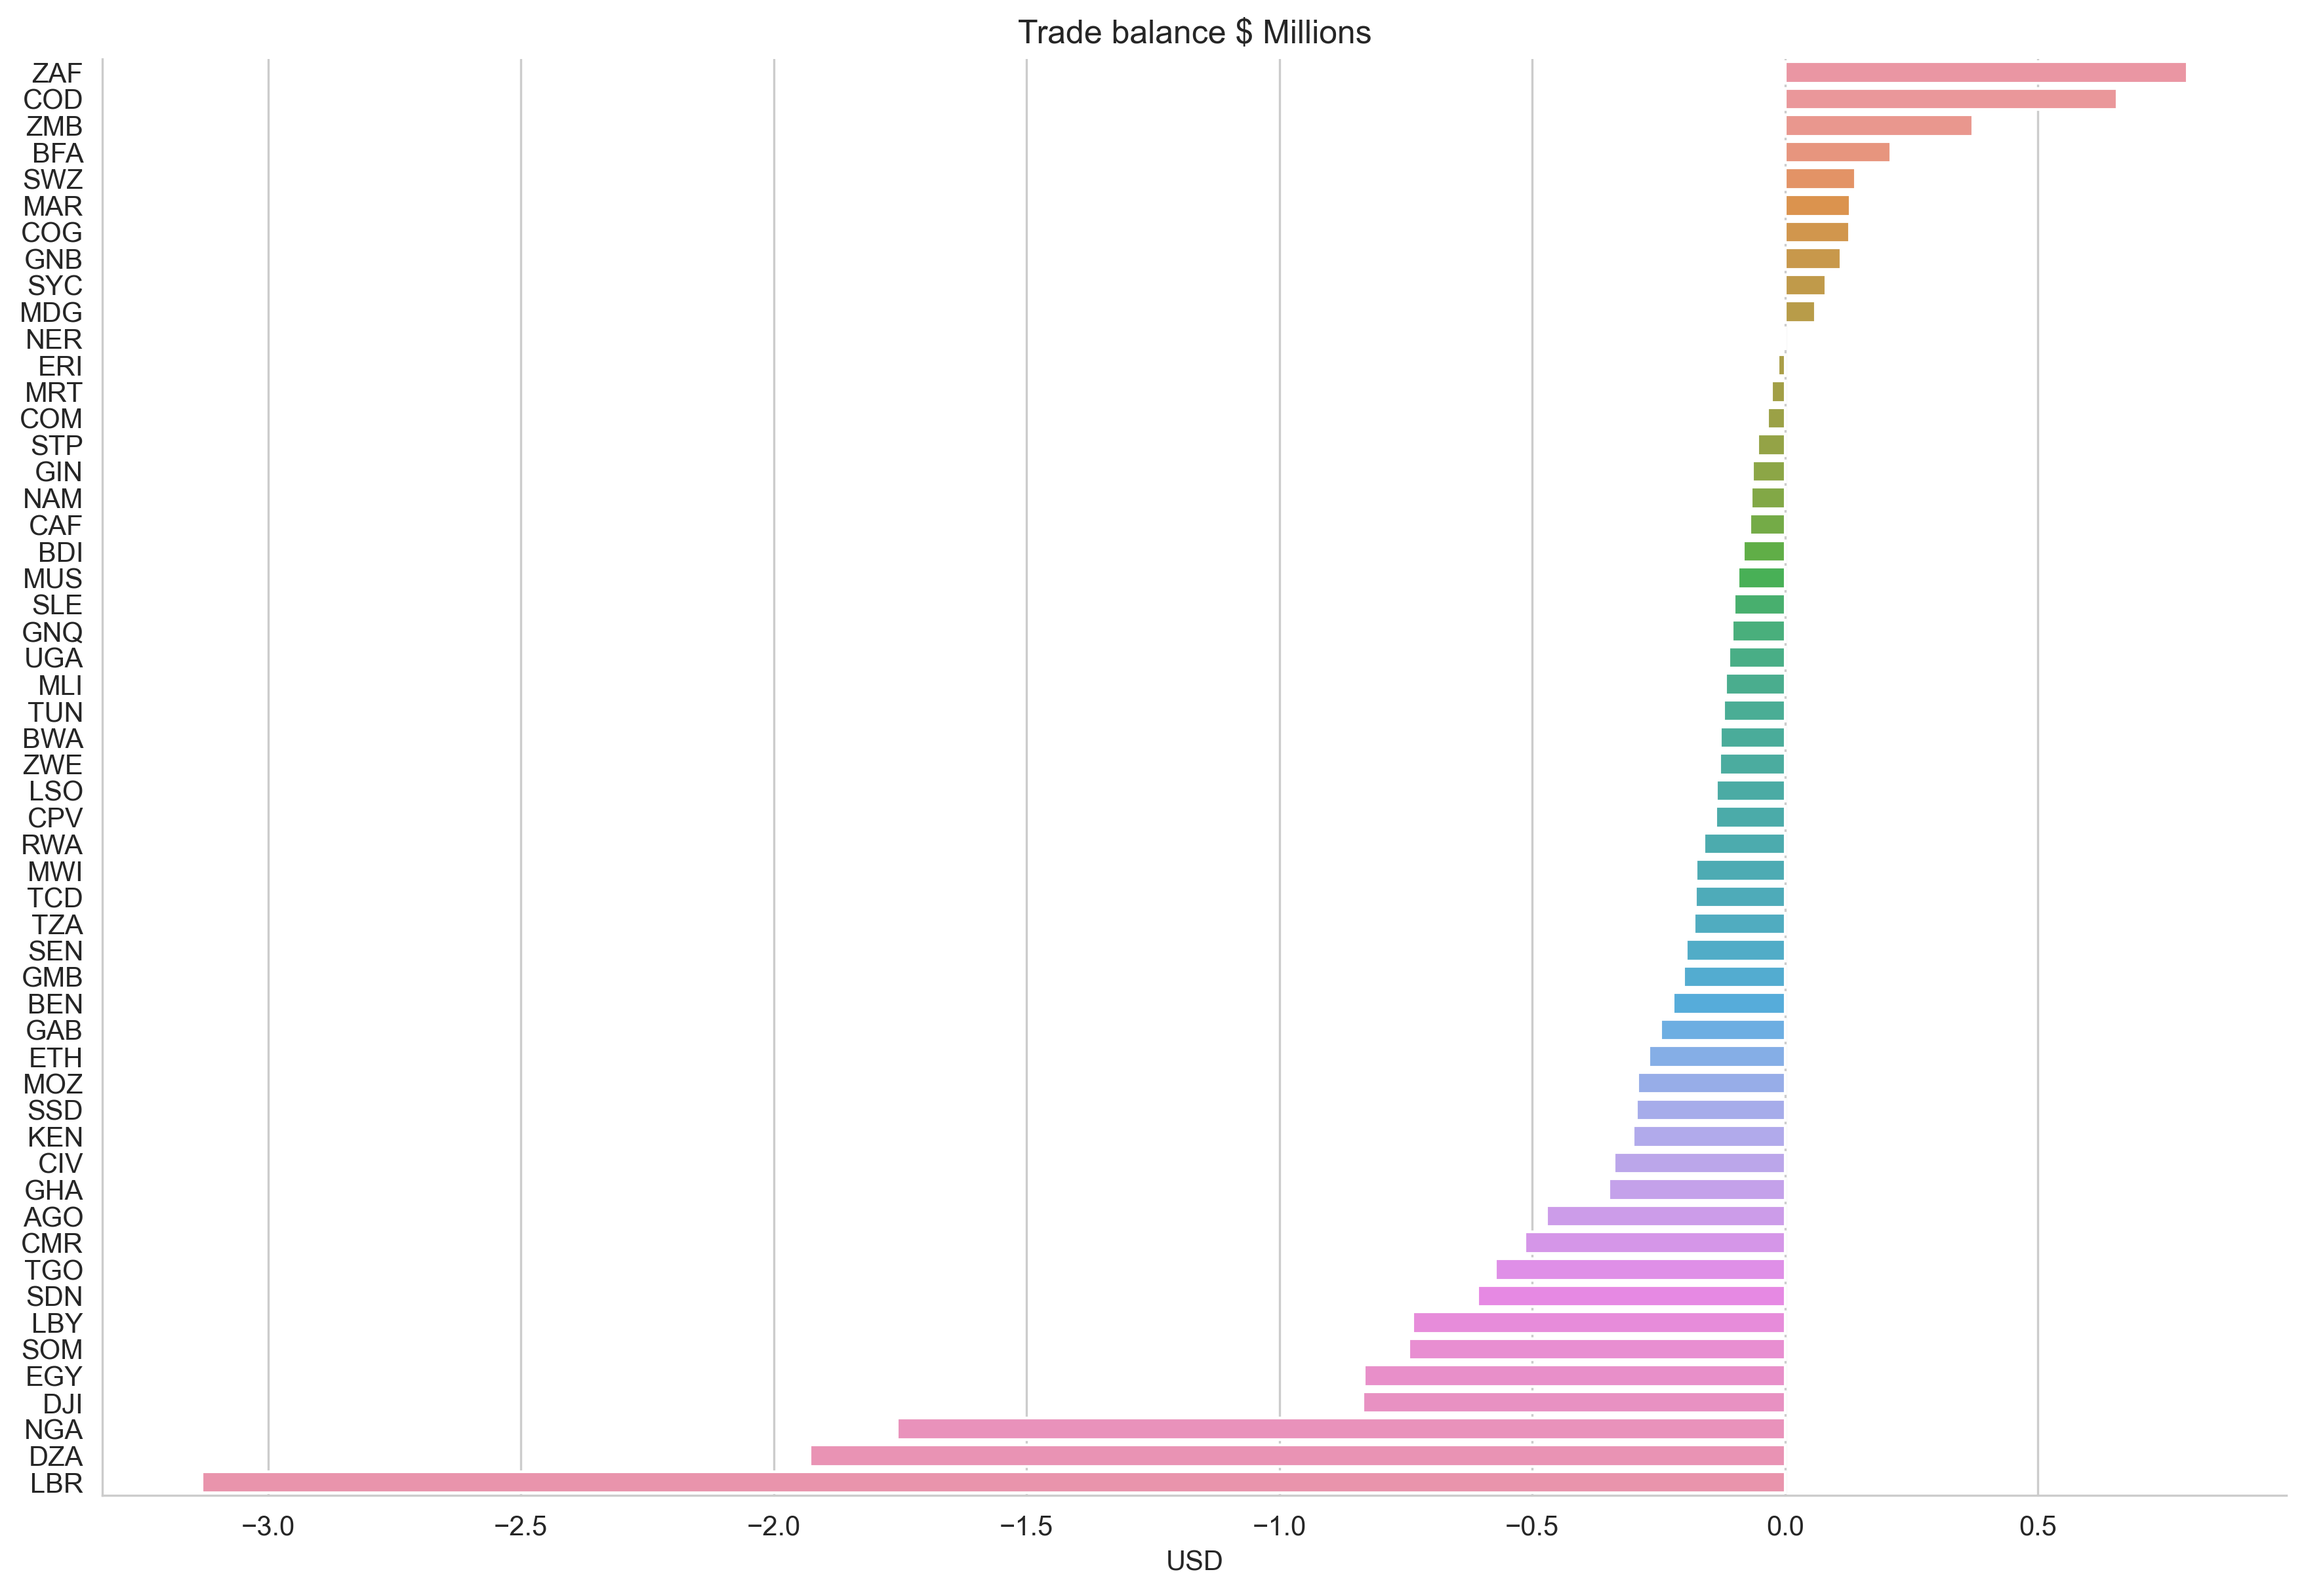
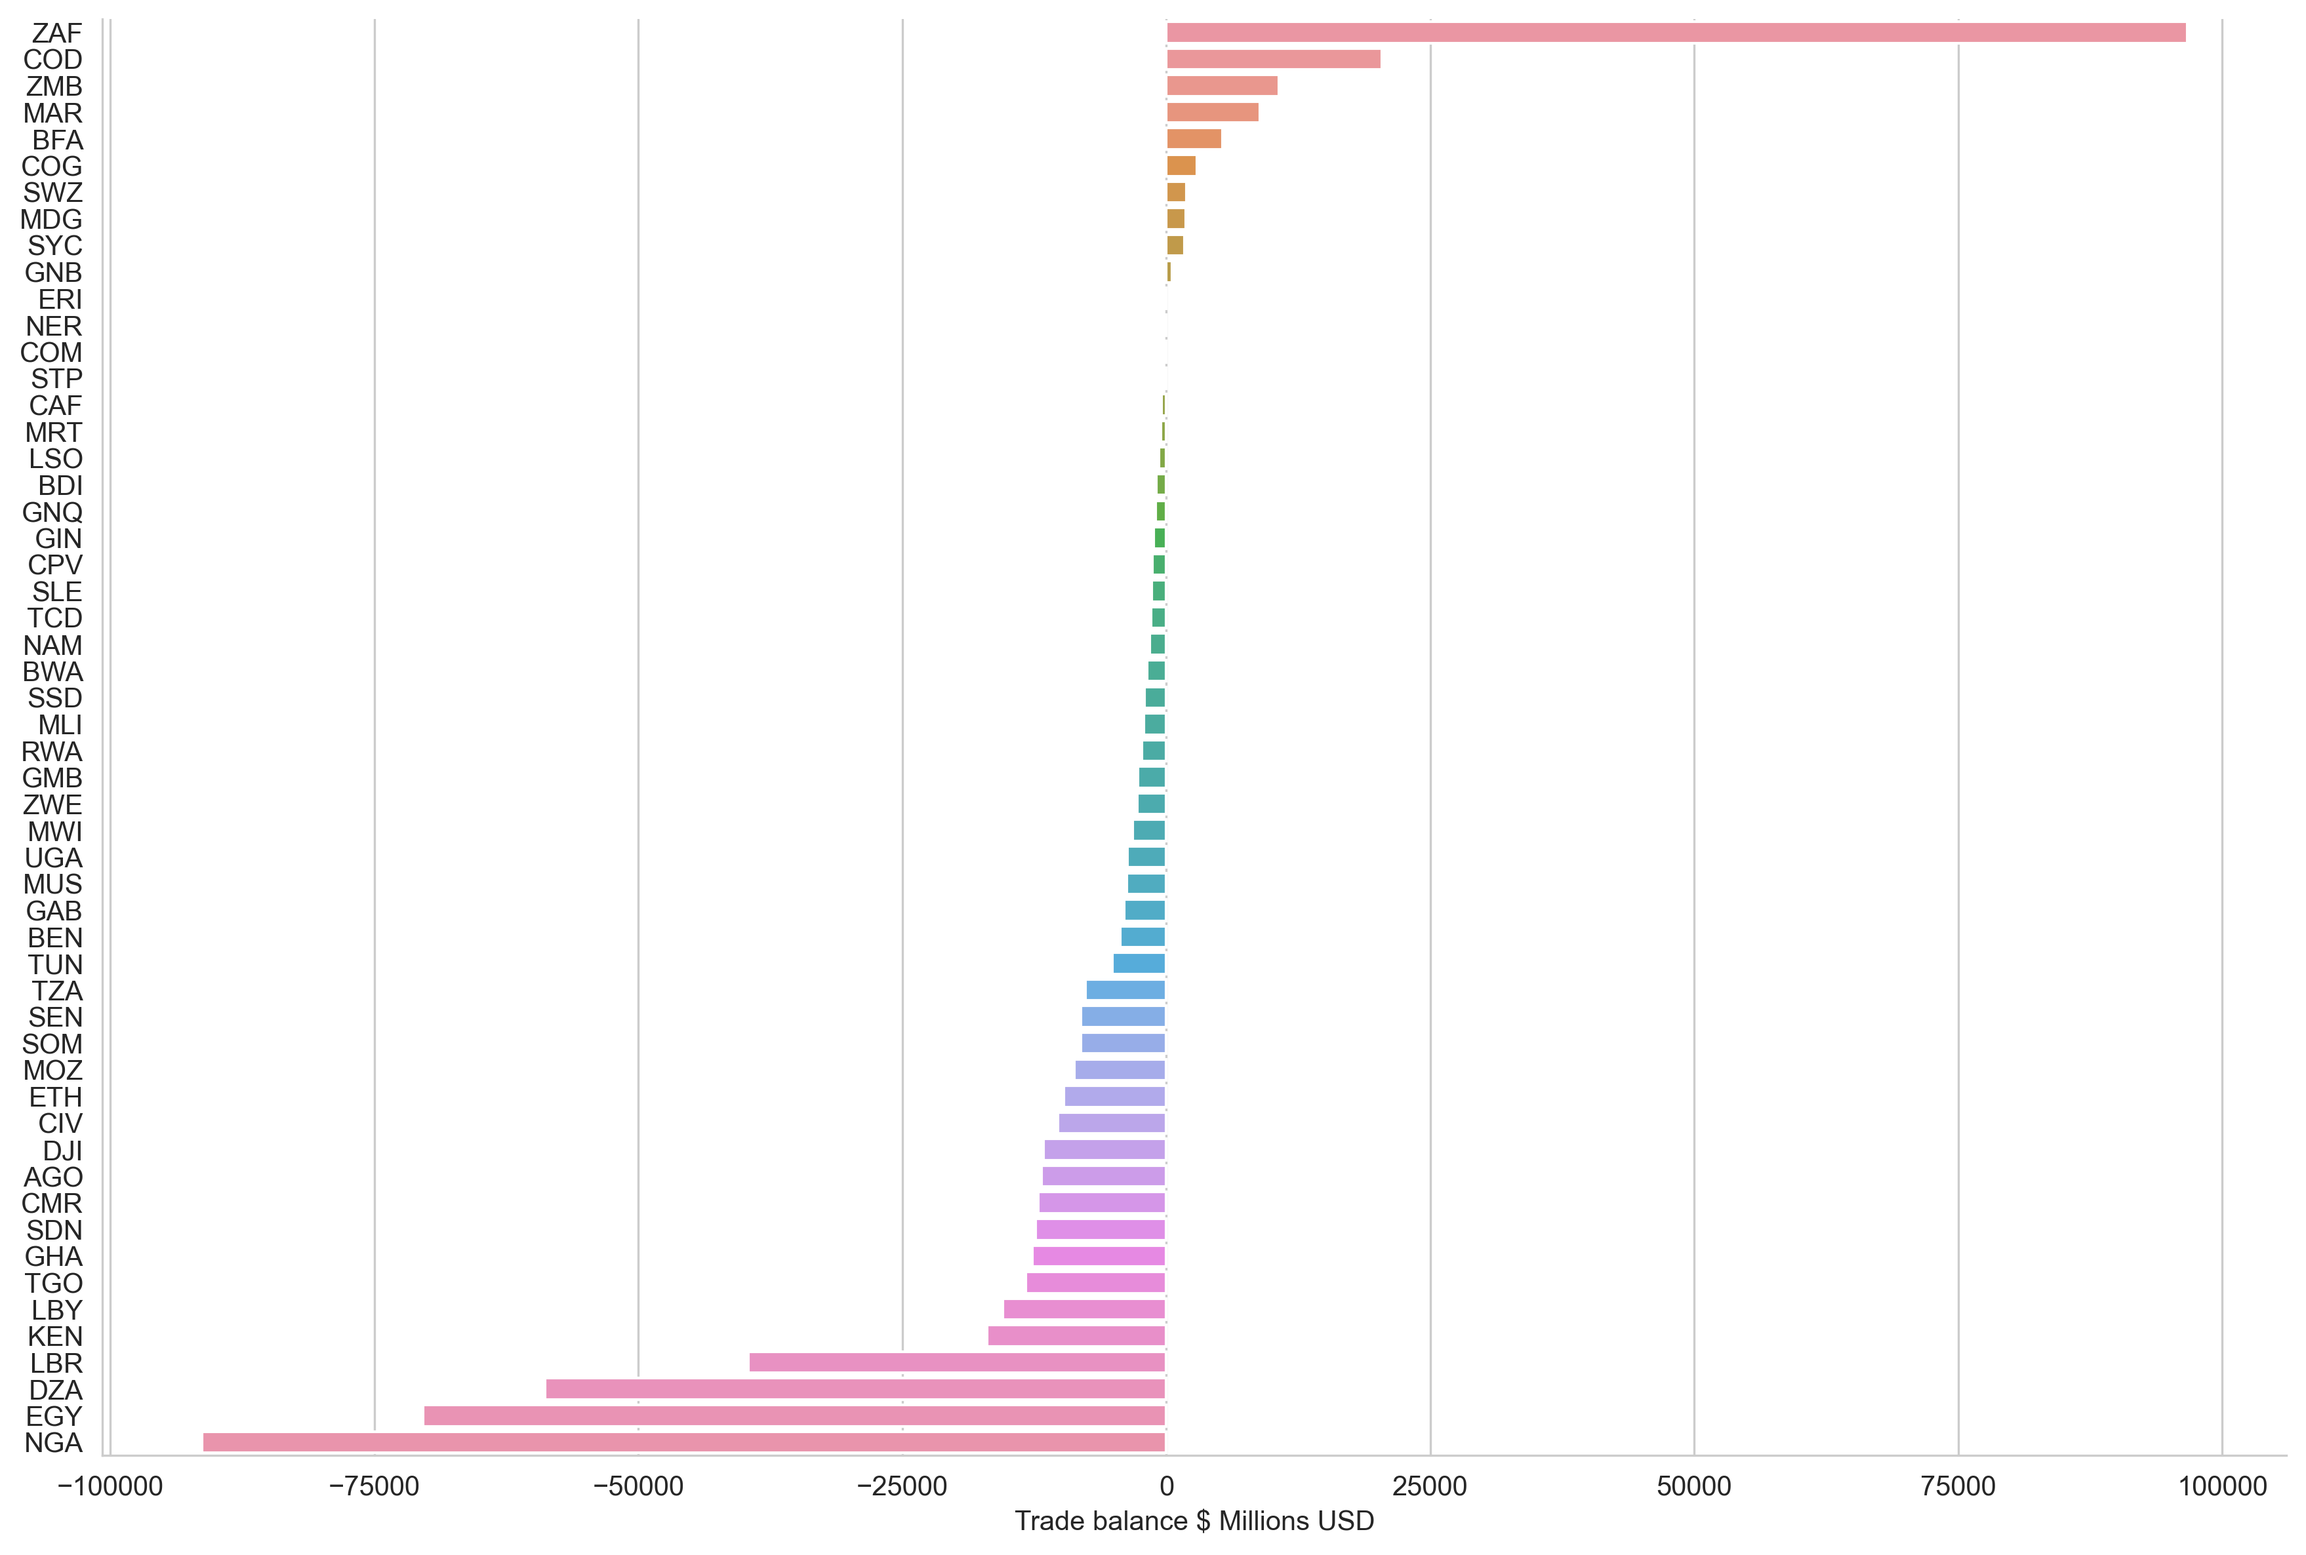
update remote

diff --git a/python/all_africa_debt_income_demogs.py b/python/all_africa_debt_income_demogs.py
@@ -58,7 +58,7 @@ all_africa_df = all_countries_df.sort_values(by='trade_balance_millions', ascend
 
 # Calculate the average trade balance per country 
 # Write the code
-all_africa_df = all_africa_df.groupby(['location_code'])['trade_balance_millions'].mean().reset_index()
+all_africa_df = all_africa_df.groupby(['location_code'])['trade_balance_millions'].sum().reset_index()
 # Sort by descending trade balance
 all_africa_df = all_africa_df.sort_values(by='trade_balance_millions', ascending=False)
 
@@ -82,8 +82,8 @@ print(all_africa_pl)
 fig, ax = plt.subplots(figsize=(8, 8))
 sns.set_style("whitegrid")
 sns.catplot(x='trade_balance_millions', y='location_code', data=all_africa_pl.to_pandas(), kind='bar', height=8, aspect=1.5)
-plt.title('Trade balance $ Millions')
-plt.xlabel('USD')
+plt.title('')
+plt.xlabel('Trade balance $ Millions USD')
 plt.ylabel('')
 plt.savefig('../output/trade_bal_by_population_allafrica.png', dpi=300, bbox_inches='tight')
 
